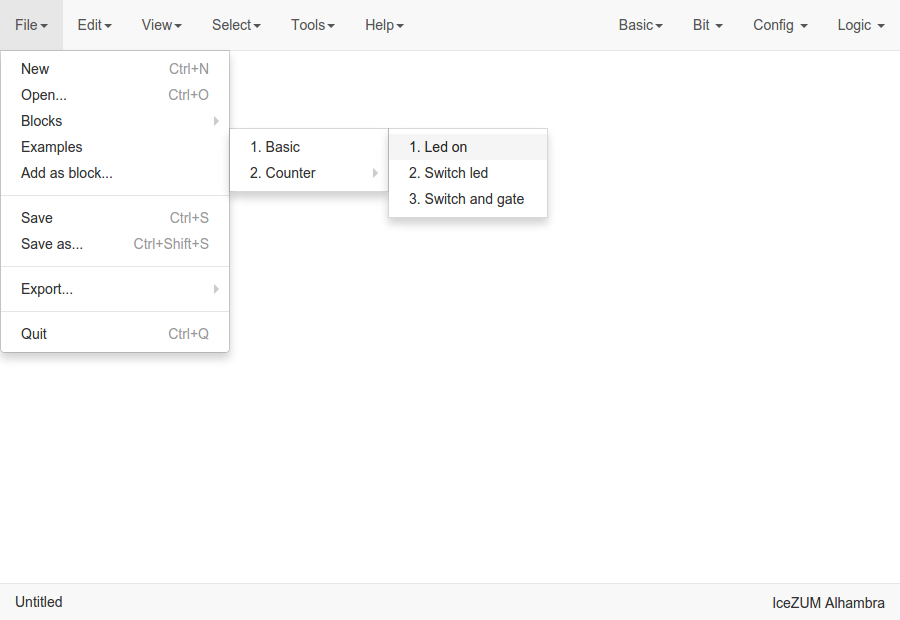
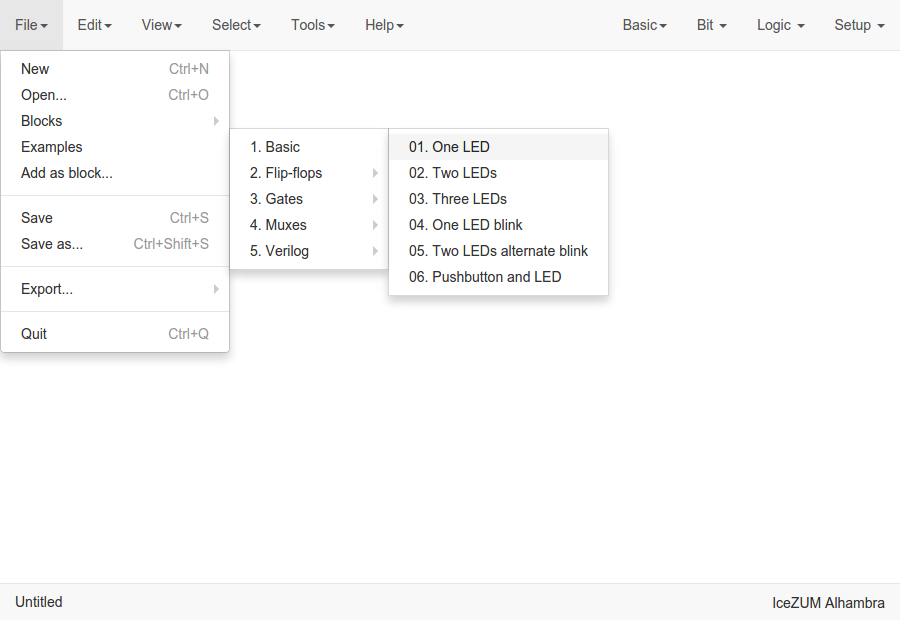
Update quickstart

diff --git a/source/quickstart.rst b/source/quickstart.rst
@@ -33,11 +33,11 @@ Go to **Select > Board**
 
 .. image:: ../resources/images/quickstart/board.png
 
-Go to **File > Examples > 1. Basic > 1. Led on**
+Go to **File > Examples > 1. Basic > 01. One LED**
 
 .. image:: ../resources/images/quickstart/example.png
 
-.. image:: ../resources/images/quickstart/1_led_on.png
+.. image:: ../resources/images/quickstart/01_one_led.png
 
 Then, you can verify, build or upload the project in **Tools > Verify | Build | Upload**.
 
